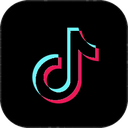
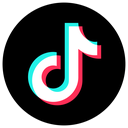
Projects: platform mark top-left, views top-right
Swap chrome so the platform icon sits top-left and views
top-right. Use the round TikTok mark (no plate). Tall YouTube
cards use the squiggly Shorts icon; only landscape films keep
the classic YouTube play mark.

diff --git a/projects.html b/projects.html
@@ -88,16 +88,15 @@
         YouTube: { key: "youtube", short: "YT", className: "plat-youtube", logo: ICONS.youtube, viewsIcon: ICONS.eye },
       };
 
-      /** Per-post mark: IG / TT / YT Shorts / YT (long / horizontal). */
+      /** Per-post mark: IG / TT / YT Shorts (tall) / YT (horizontal long only). */
       function platMark(post) {
         if (!post) return { key: "ig", logo: ICONS.ig, title: "Instagram" };
         if (post.platform === "YouTube") {
-          const t = String(post.type || "").toLowerCase();
-          const url = String(post.url || "");
-          if (t === "short" || /youtube\.com\/shorts\//i.test(url)) {
-            return { key: "youtube-shorts", logo: ICONS.youtubeShorts, title: "YouTube Shorts" };
+          // Squiggly Shorts mark for all tall YT; classic play only on landscape films
+          if (isLandscapeFilm(post)) {
+            return { key: "youtube", logo: ICONS.youtube, title: "YouTube" };
           }
-          return { key: "youtube", logo: ICONS.youtube, title: "YouTube" };
+          return { key: "youtube-shorts", logo: ICONS.youtubeShorts, title: "YouTube Shorts" };
         }
         const m = meta(post.platform);
         return { key: m.key, logo: m.logo, title: post.platform };
@@ -458,11 +457,12 @@
               <div class="feed-post-header">
                 <img class="feed-post-avatar" src="${IG_AVATAR}" alt="" width="32" height="32" />
                 <span class="feed-post-user">${IG_HANDLE}</span>
-                <span class="feed-header-right">${metricChip}${platBadge}</span>
+                <span class="feed-header-right">${metricChip}</span>
               </div>
               <div class="feed-post-media">
                 ${thumb}
                 ${carousel}
+                <span class="feed-media-plat">${platBadge}</span>
               </div>
               <div class="feed-post-caption">
                 <span class="feed-post-user">${IG_HANDLE}</span>${escapeHtml(post.title || "")}
@@ -478,12 +478,12 @@
             <div class="phone-screen ${isWide ? "is-wide-screen" : "is-tall-screen"}">
               ${thumb}
               <div class="phone-screen-scrim"></div>
-              <div class="phone-top-bar is-plat-tr">
+              <div class="phone-top-bar is-plat-tl">
+                ${platBadge}
                 <span class="views-chip" title="Views">
                   <span class="views-icon">${m.viewsIcon}</span>
                   ${fmt(post.views)}
                 </span>
-                ${platBadge}
               </div>
               <div class="phone-bottom-bar">
                 <div class="clip-title" style="color:#fff">${escapeHtml(post.title || "")}</div>

diff --git a/styles.css b/styles.css
@@ -1471,15 +1471,21 @@ h3 {
   background: transparent;
 }
 
+.plat-logo-badge.tiktok,
+.plat-logo-badge.tiktok .plat-logo-img {
+  border-radius: 50%;
+}
+
 .phone-top-bar.is-views-only {
   justify-content: flex-end;
 }
 
-.phone-top-bar.is-plat-tr {
+/* Platform mark top-left, views top-right */
+.phone-top-bar.is-plat-tl {
   justify-content: space-between;
 }
 
-.phone-top-bar.is-plat-tr .plat-logo-badge {
+.phone-top-bar.is-plat-tl .views-chip {
   margin-left: auto;
 }
 
@@ -2285,6 +2291,20 @@ h3 {
   object-fit: cover;
   object-position: center;
   transition: transform 0.35s ease;
+}
+
+.feed-media-plat {
+  position: absolute;
+  top: 0.4rem;
+  left: 0.4rem;
+  z-index: 2;
+  pointer-events: none;
+}
+
+.feed-media-plat .plat-logo-badge {
+  width: 1.15rem;
+  height: 1.15rem;
+  box-shadow: 0 1px 3px rgba(0, 0, 0, 0.35);
 }
 
 .feed-carousel-icon {
